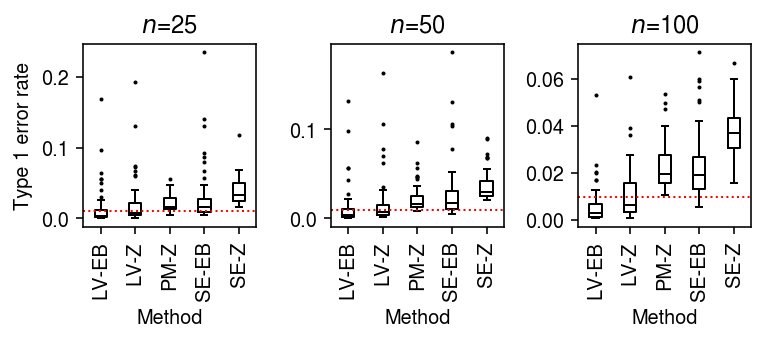
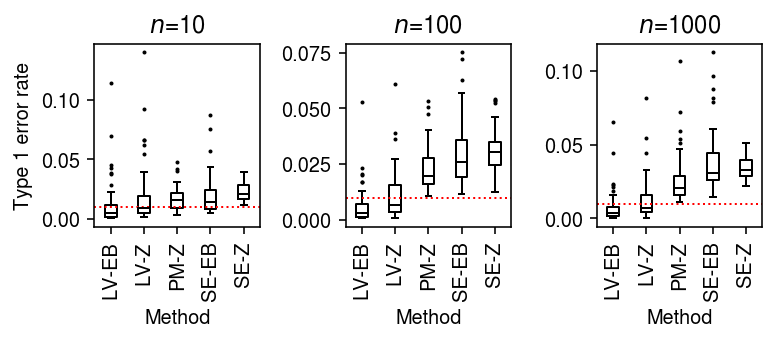
Investigate Type 1 error versus difference in sequencing depth

diff --git a/docs/voom.html b/docs/voom.html
@@ -1,7 +1,7 @@
 <!DOCTYPE html>
 <html lang="en">
 <head>
-<!-- 2020-06-25 Thu 23:46 -->
+<!-- 2020-06-26 Fri 17:01 -->
 <meta charset="utf-8">
 <meta name="viewport" content="width=device-width, initial-scale=1">
 <title>An improved voom transform for scRNA-seq data</title>
@@ -741,11 +741,12 @@ Implement a simplified
 <span class="org-doc">  onehot - mapping of cells to groups (dense)</span>
 
 <span class="org-doc">  """</span>
-  <span class="org-variable-name">theta</span> = np.log(onehot.T @ x + 1) - np.log(onehot.T @ x.<span class="org-builtin">sum</span>(axis=1, keepdims=<span class="org-constant">True</span>))
+  <span class="org-variable-name">theta</span> = np.log(onehot.T @ x) - np.log(onehot.T @ x.<span class="org-builtin">sum</span>(axis=1, keepdims=<span class="org-constant">True</span>))
   <span class="org-keyword">if</span> ss.isspmatrix(theta):
     <span class="org-variable-name">theta</span> = theta.A
   <span class="org-variable-name">bhat</span> = theta[0] - theta[1]
-  <span class="org-variable-name">V</span> = 1 / (onehot.T @ x + 1)
+  <span class="org-comment-delimiter"># </span><span class="org-comment">Important: allow infinite SE; otherwise this is anti-conservative</span>
+  <span class="org-variable-name">V</span> = 1 / (onehot.T @ x)
   <span class="org-variable-name">se</span> = np.sqrt(V.<span class="org-builtin">sum</span>(axis=0))
   <span class="org-variable-name">z</span> = bhat / se
   <span class="org-variable-name">p</span> = st.norm().sf(<span class="org-builtin">abs</span>(z))
@@ -772,11 +773,11 @@ Implement a simplified
     <span class="org-variable-name">log_mean</span> = np.log(x + 1) - np.log(s)
     <span class="org-comment-delimiter"># </span><span class="org-comment">Important: this only reduces when there are no techncial covariates in</span>
     <span class="org-comment-delimiter"># </span><span class="org-comment">the measurement model</span>
-    <span class="org-variable-name">w</span> = x + 1
+    <span class="org-variable-name">w</span> = x
     <span class="org-variable-name">design</span> = np.vstack([onehot[:,0], np.ones(x.shape[0])]).T
   <span class="org-keyword">else</span>:
     <span class="org-variable-name">log_mean</span> = np.log(onehot.T @ x + 1) - np.log(onehot.T @ s)
-    <span class="org-variable-name">w</span> = onehot.T @ x + 1
+    <span class="org-variable-name">w</span> = onehot.T @ x
   <span class="org-variable-name">fit</span> = limma.lm_series(log_mean.T, design=design, weights=w.T)
   <span class="org-keyword">return</span> fit
 
@@ -1342,10 +1343,9 @@ v3 PBMC data</a>, which has more molecules observed per sample on average.
 </div>
 
 <div class="org-src-container">
-<pre class="src src-ipython"><span class="org-variable-name">result</span> = <span class="org-builtin">dict</span>()
-<span class="org-keyword">for</span> n_cells <span class="org-keyword">in</span> (25, 50, 100):
-  <span class="org-variable-name">result</span>[n_cells] = evaluate_type1(dat, n_cells=n_cells, min_cells=n_cells, n_trials=50)
-<span class="org-variable-name">result</span> = pd.concat(result).reset_index(drop=<span class="org-constant">True</span>)
+<pre class="src src-ipython"><span class="org-variable-name">result</span> = pd.concat(
+  evaluate_type1(dat, n_cells=n_cells, min_cells=n_cells, n_trials=50)
+  <span class="org-keyword">for</span> n_cells <span class="org-keyword">in</span> (10, 100, 1000))
 </pre>
 </div>
 
@@ -1406,11 +1406,46 @@ fig.tight_layout()
 <p><img src="figure/voom.org/fpr-unequal-s.png" alt="fpr-unequal-s.png">
 </p>
 </div>
+
+<p>
+As an alternative view, fix the number of cells \(n=100\) and vary the
+difference in sequencing depth.
+</p>
+
+<div class="org-src-container">
+<pre class="src src-ipython"><span class="org-variable-name">result</span> = pd.concat(
+  evaluate_type1(dat, b=b, n_cells=100, min_cells=100, n_trials=50)
+  <span class="org-keyword">for</span> b <span class="org-keyword">in</span> np.log(np.linspace(1, 2, 4))
+)
+</pre>
 </div>
 
-<div id="outline-container-org2125680" class="outline-4">
-<h4 id="org2125680">Unequal size factors</h4>
-<div class="outline-text-4" id="text-org2125680">
+<div class="org-src-container">
+<pre class="src src-ipython">plt.clf()
+<span class="org-variable-name">fig</span>, <span class="org-variable-name">ax</span> = plt.subplots(1, 4)
+fig.set_size_inches(6.5, 2.5)
+<span class="org-variable-name">labels</span> = [<span class="org-string">'LV-EB'</span>, <span class="org-string">'LV-Z'</span>, <span class="org-string">'PM-Z'</span>, <span class="org-string">'SE-EB'</span>, <span class="org-string">'SE-Z'</span>]
+<span class="org-keyword">for</span> a, (b, g) <span class="org-keyword">in</span> <span class="org-builtin">zip</span>(ax, result.groupby(<span class="org-string">'b'</span>)):
+  a.boxplot(g.pivot_table(columns=<span class="org-string">'trial'</span>, index=[<span class="org-string">'method'</span>, <span class="org-string">'test'</span>], values=<span class="org-string">'fdp'</span>), widths=0.35, medianprops={<span class="org-string">'color'</span>: <span class="org-string">'k'</span>}, flierprops={<span class="org-string">'marker'</span>: <span class="org-string">'.'</span>, <span class="org-string">'markersize'</span>: 2})
+  a.axhline(y=0.01, c=<span class="org-string">'r'</span>, lw=1, ls=<span class="org-string">':'</span>)
+  a.set_xticklabels(labels, rotation=90)
+  a.set_xlabel(<span class="org-string">'Method'</span>)
+  a.set_title(f<span class="org-string">'$b$={np.exp(b):.2g}'</span>)
+ax[0].set_ylabel(<span class="org-string">'Type 1 error rate'</span>)
+fig.tight_layout()
+</pre>
+</div>
+
+
+<div class="figure">
+<p><img src="figure/voom.org/fpr-vs-b.png" alt="fpr-vs-b.png">
+</p>
+</div>
+</div>
+
+<div id="outline-container-orga33496c" class="outline-4">
+<h4 id="orga33496c">Unequal size factors</h4>
+<div class="outline-text-4" id="text-orga33496c">
 <p>
 To generate single cells with unequal size factors, combine simulated
 doublets from sorted cells in one group.
@@ -1729,9 +1764,9 @@ fig.tight_layout()
 </div>
 </div>
 
-<div id="outline-container-orga33496c" class="outline-4">
-<h4 id="orga33496c">Unequal size factors</h4>
-<div class="outline-text-4" id="text-orga33496c">
+<div id="outline-container-org4cbfade" class="outline-4">
+<h4 id="org4cbfade">Unequal size factors</h4>
+<div class="outline-text-4" id="text-org4cbfade">
 <p>
 Generate null data with different size factors by assigning different
 numbers of cells to different donors.
@@ -1855,7 +1890,7 @@ plt.tight_layout()
 </div>
 <div id="postamble" class="status">
 <p class="author">Author: Abhishek Sarkar</p>
-<p class="date">Created: 2020-06-25 Thu 23:46</p>
+<p class="date">Created: 2020-06-26 Fri 17:01</p>
 <p class="validation"><a href="http://validator.w3.org/check?uri=referer">Validate</a></p>
 </div>
 </body>
